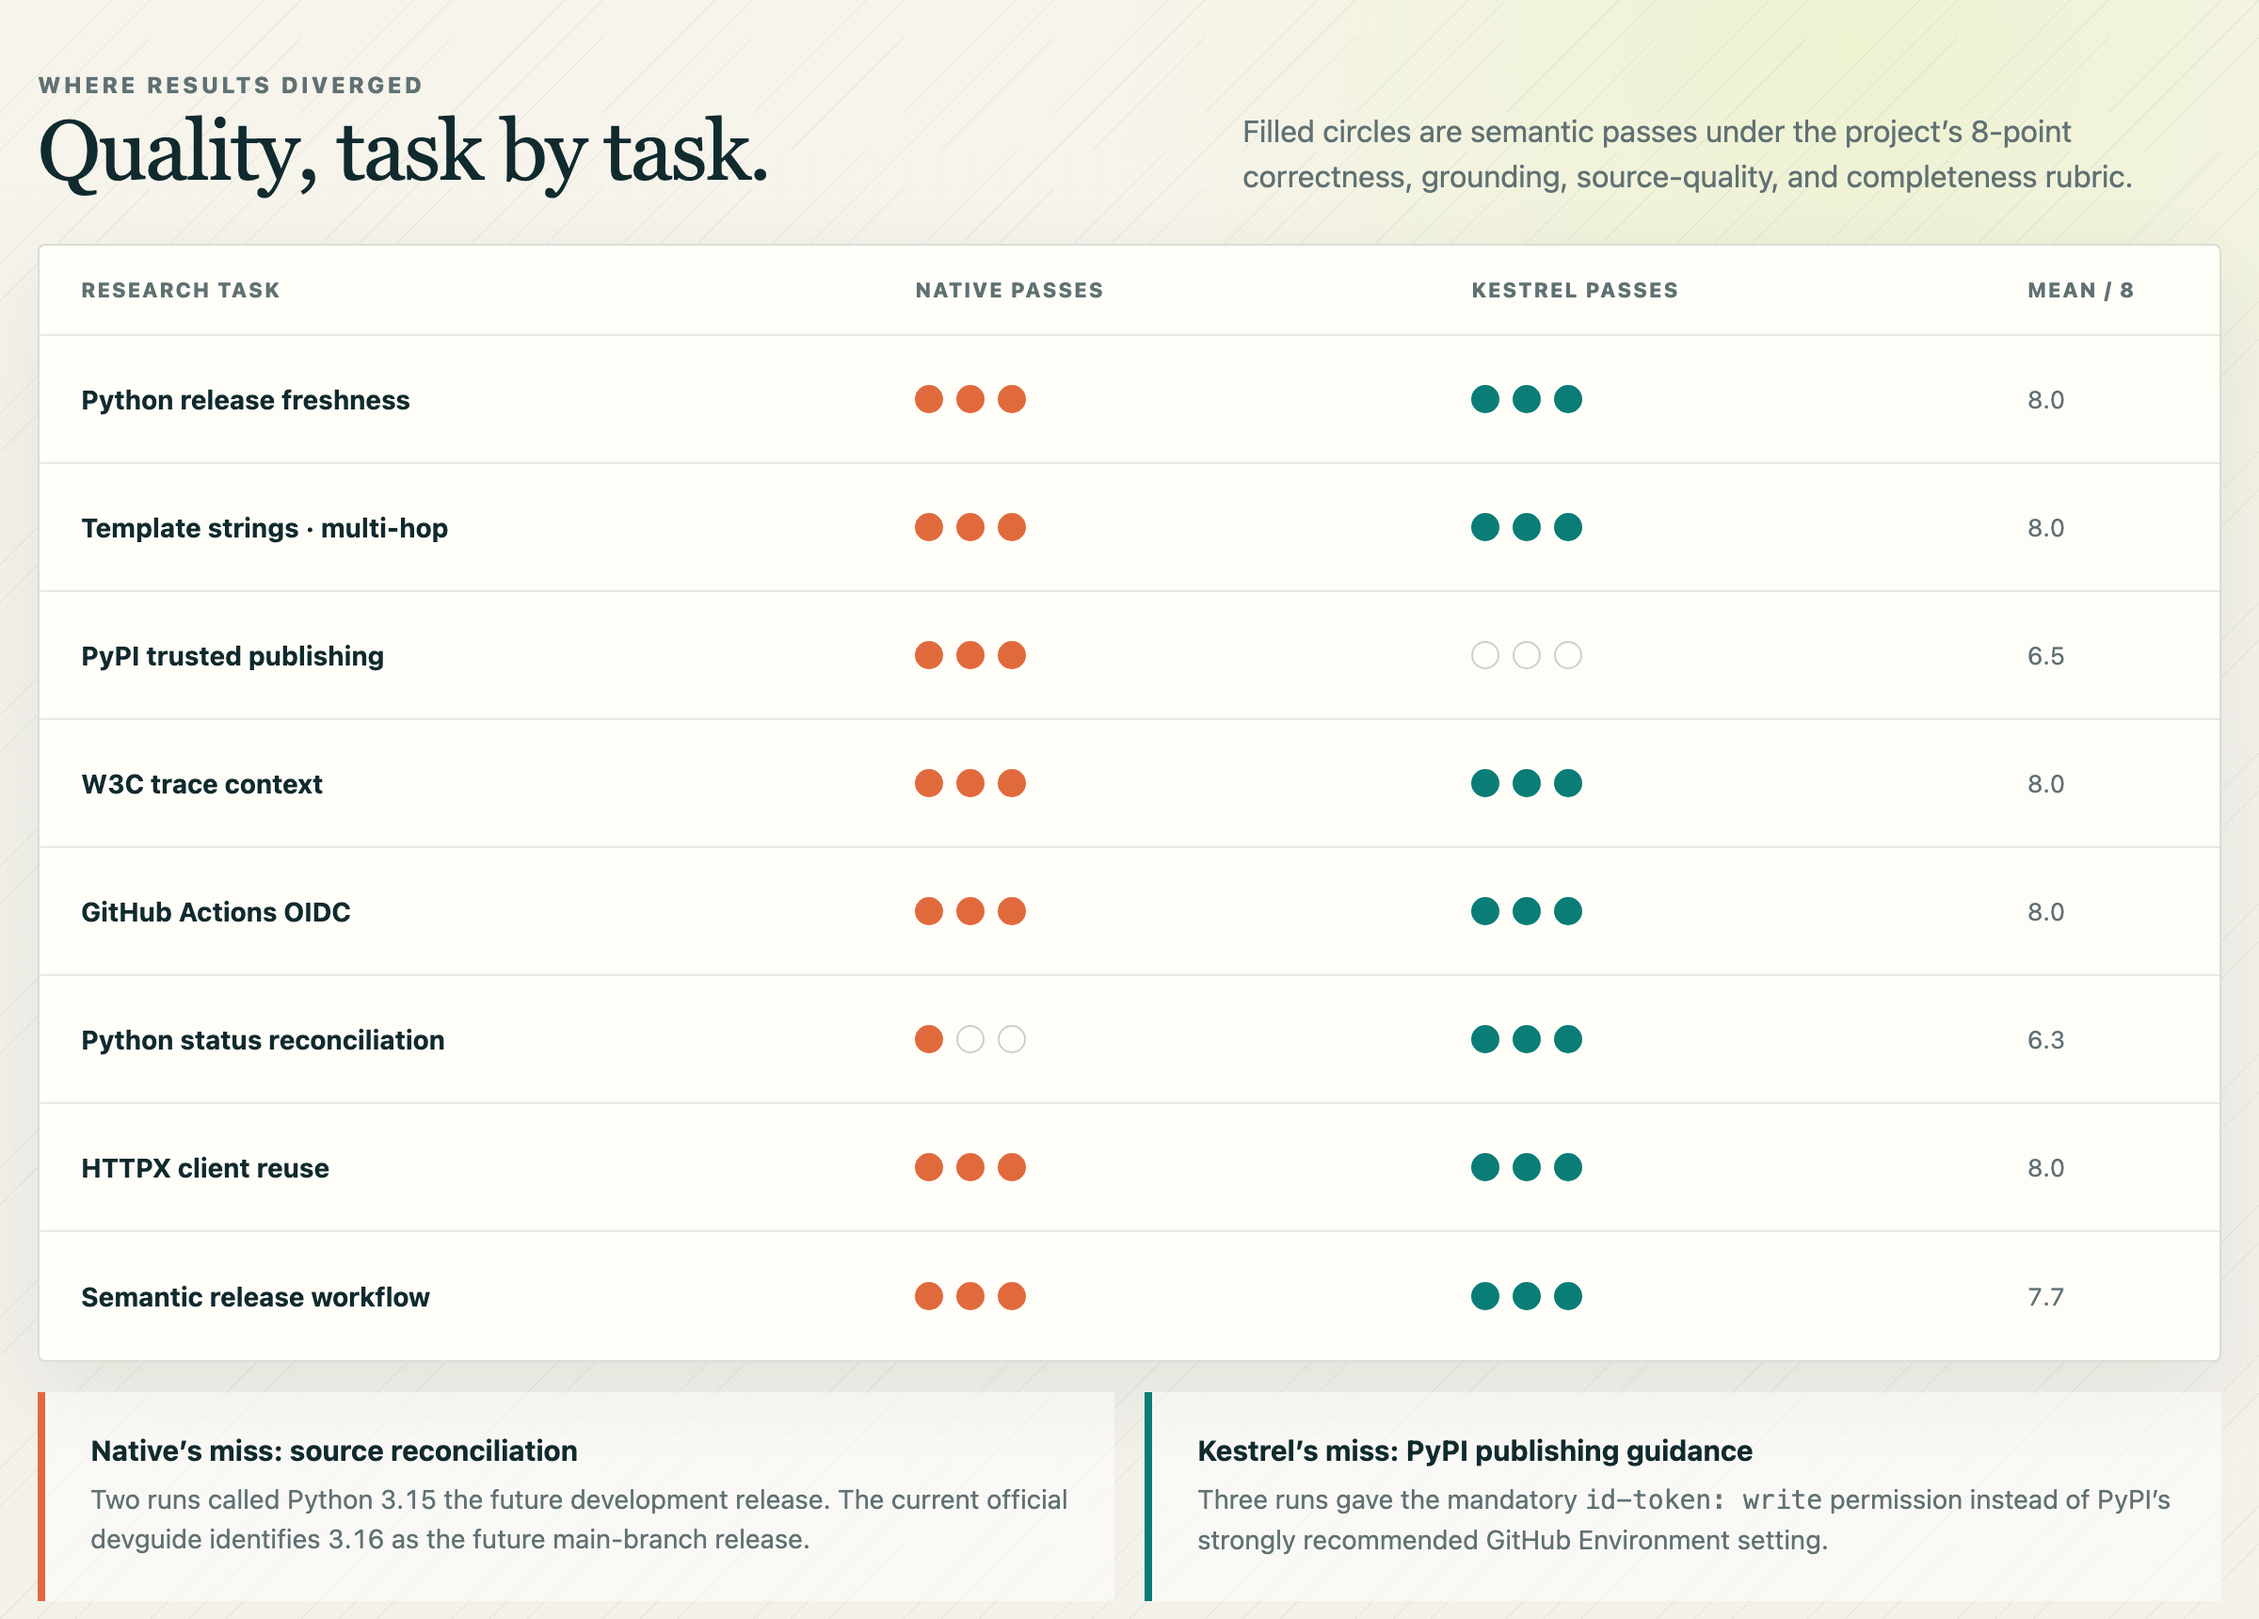
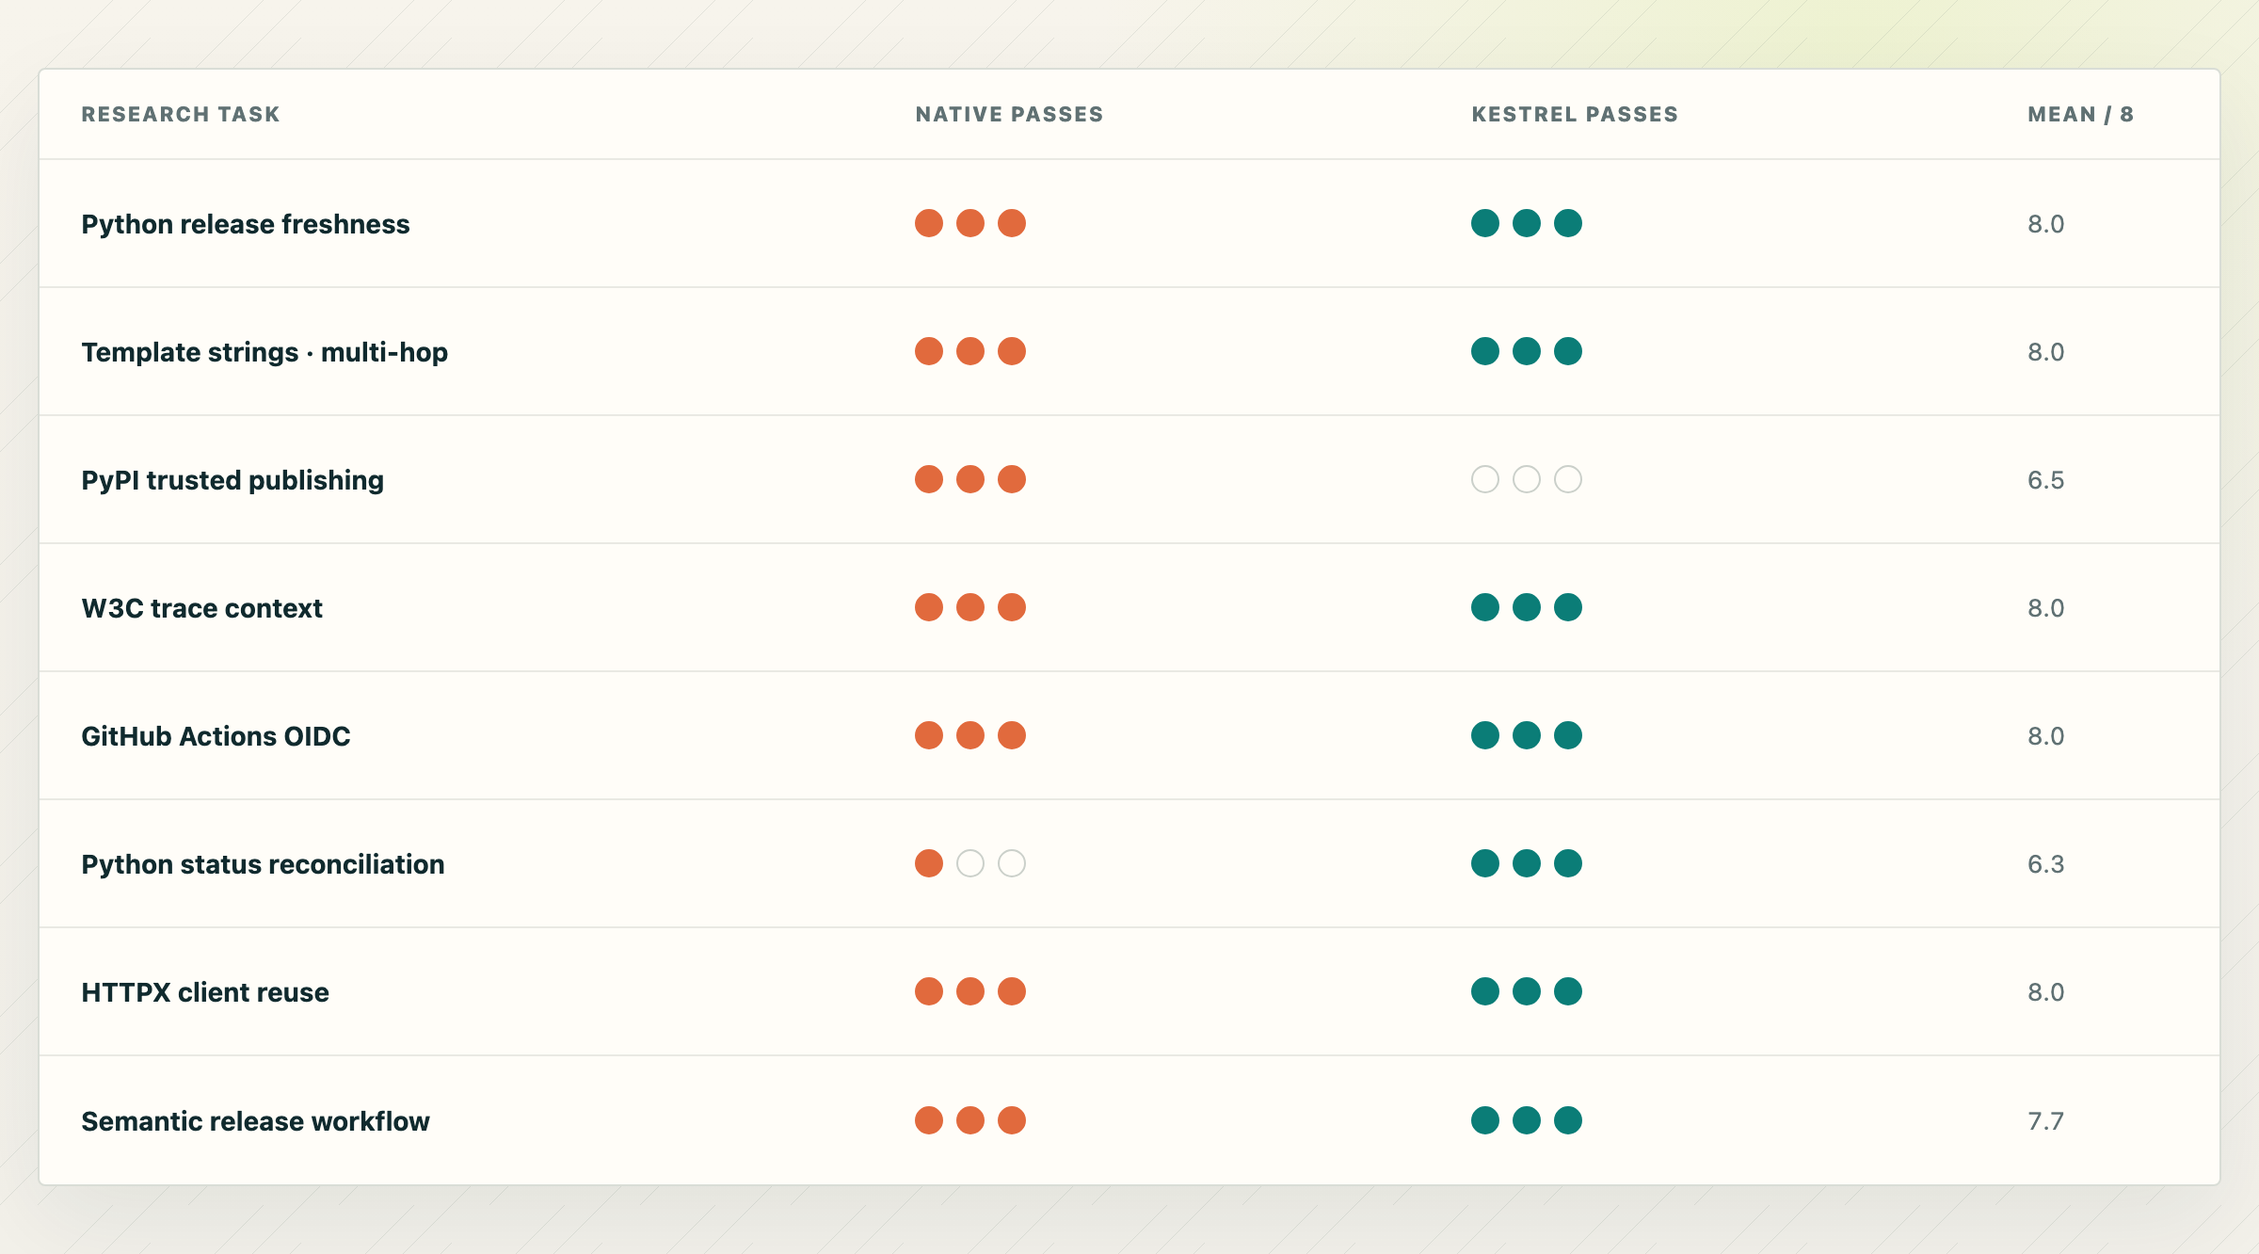
bench docs

diff --git a/benchmarks/viz/index.html b/benchmarks/viz/index.html
@@ -222,13 +222,6 @@
     .pass-dot.off { color: #cbd0ca; background: transparent; }
     .score { color: var(--muted); font-size: 13px; }
 
-    .findings { display: grid; grid-template-columns: 1fr 1fr; gap: 16px; margin-top: 16px; }
-    .finding { padding: 22px 24px; border-left: 4px solid; background: rgba(255,255,255,.5); }
-    .finding.native { border-color: var(--native); }
-    .finding.kestrel { border-color: var(--kestrel); }
-    .finding h3 { margin-bottom: 7px; font-size: 15px; }
-    .finding p { margin: 0; color: var(--muted); font-size: 14px; line-height: 1.5; }
-
     details.raw-card { padding: 0; }
     details summary { padding: 24px 26px; cursor: pointer; font-weight: 800; list-style: none; }
     details summary::-webkit-details-marker { display: none; }
@@ -279,7 +272,7 @@
       .hero { grid-template-columns: minmax(0, 1fr); gap: 28px; padding-top: 42px; }
       .hero > *, .section-head > * { min-width: 0; width: 100%; }
       .cards { grid-template-columns: 1fr 1fr; }
-      .plot-grid, .findings { grid-template-columns: 1fr; }
+      .plot-grid { grid-template-columns: 1fr; }
       .section-head { align-items: start; flex-direction: column; gap: 12px; }
     }
     @media (max-width: 580px) {
@@ -340,14 +333,7 @@
       <div class="cards" id="summary-cards"></div>
     </section>
 
-    <section class="section" id="distributions" aria-labelledby="distribution-title">
-      <div class="section-head">
-        <div>
-          <p class="eyebrow">Every run, visible</p>
-          <h2 id="distribution-title">Look past the median.</h2>
-        </div>
-        <p>Each dot is one trial. The dark tick marks the median. Lower is better for both charts.</p>
-      </div>
+    <section class="section" id="distributions" aria-label="Trial distributions">
       <div class="plot-grid">
         <article class="plot-card">
           <h3 class="plot-title">End-to-end latency</h3>
@@ -362,25 +348,8 @@
       </div>
     </section>
 
-    <section class="section" id="task-quality" aria-labelledby="task-title">
-      <div class="section-head">
-        <div>
-          <p class="eyebrow">Where results diverged</p>
-          <h2 id="task-title">Quality, task by task.</h2>
-        </div>
-        <p>Filled circles are semantic passes under the project’s 8-point correctness, grounding, source-quality, and completeness rubric.</p>
-      </div>
+    <section class="section" id="task-quality" aria-label="Semantic benchmark passes by task">
       <div class="task-card" id="task-matrix"></div>
-      <div class="findings">
-        <article class="finding native">
-          <h3>Native’s miss: source reconciliation</h3>
-          <p>Two runs called Python 3.15 the future development release. The current official devguide identifies 3.16 as the future main-branch release.</p>
-        </article>
-        <article class="finding kestrel">
-          <h3>Kestrel’s miss: PyPI publishing guidance</h3>
-          <p>Three runs gave the mandatory <code>id-token: write</code> permission instead of PyPI’s strongly recommended GitHub Environment setting.</p>
-        </article>
-      </div>
     </section>
 
     <section class="section" id="raw" aria-labelledby="raw-title">
